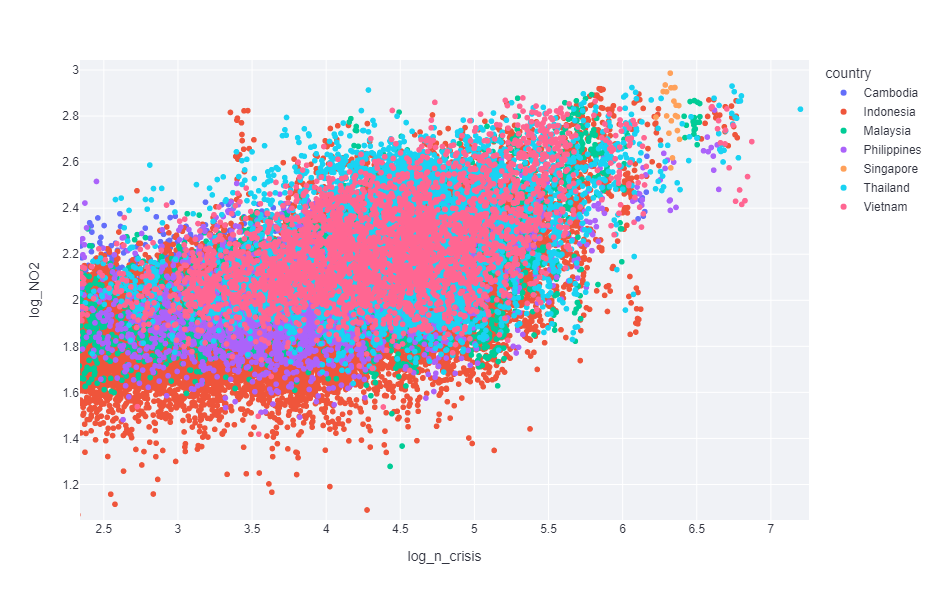
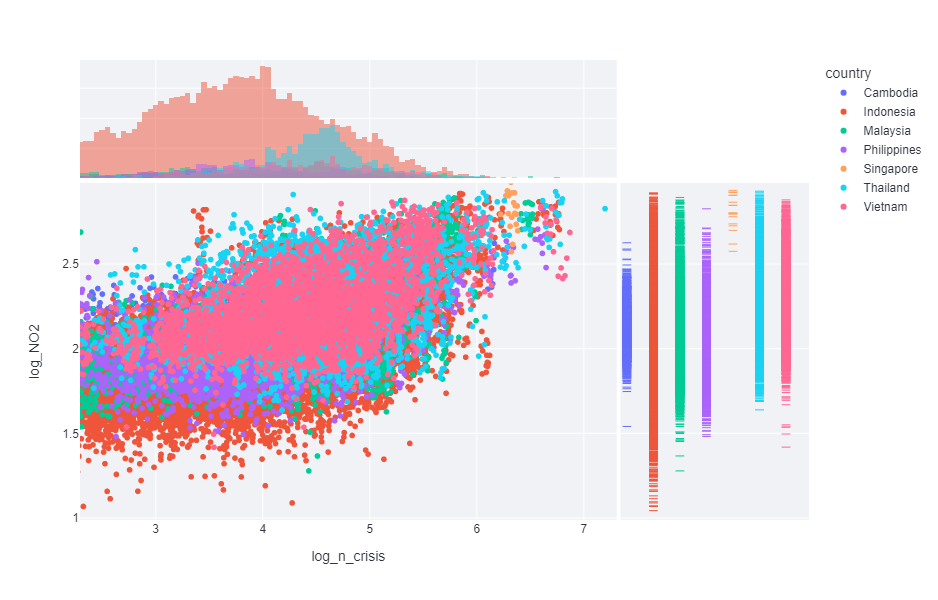
update app

diff --git a/apps/scatter.py b/apps/scatter.py
@@ -7,8 +7,8 @@ def app():
     clist = df.columns.values.tolist()
     x = st.sidebar.selectbox("Select x-axis variable:",clist)
     y = st.sidebar.selectbox("Select y-axis variable:",clist)
-    color = st.sidebar.selectbox("Select color:",clist)
-    fig = px.scatter(df, x , y , color = color, height = 600)
+    color = st.sidebar.selectbox("Select color:",clist)  
+    fig = px.scatter(df, x , y , color = color, marginal_x="histogram", marginal_y="rug", height = 600)
     st.plotly_chart(fig, use_container_width=True)
 
     
